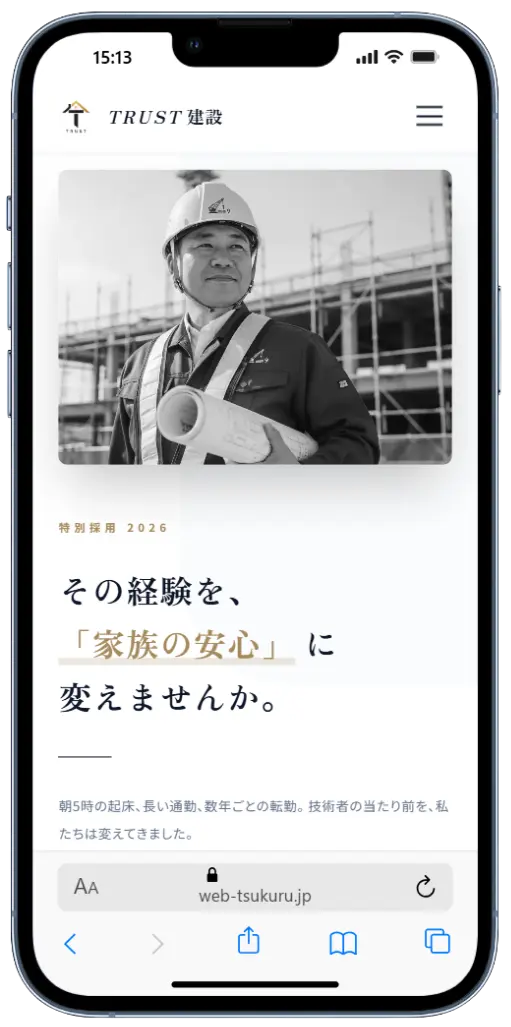
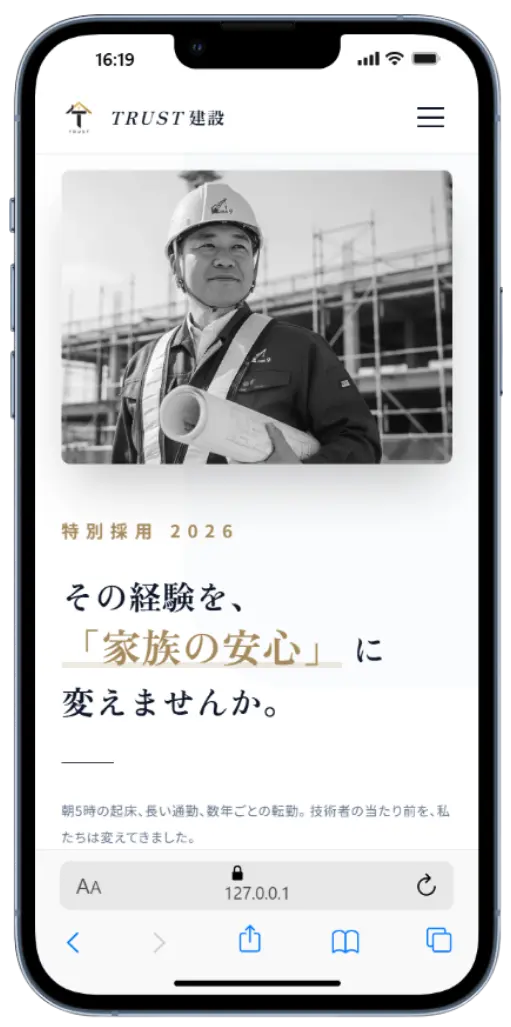
修正

diff --git a/templates/type-trust/index.html b/templates/type-trust/index.html
@@ -167,7 +167,7 @@
                     <h1 class="text-3xl md:text-5xl lg:text-6xl font-serif font-bold leading-[1.6] md:leading-[1.8] lg:leading-[1.8] mb-8 md:mb-12 tracking-wide">
                         その経験を、<br>
                         
-                        <span class="inline-block">
+                        <span class="whitespace-nowrap">
                             <span class="text-brand-gold relative inline-block text-4xl md:text-6xl lg:text-7xl">
                                 「家族の安心」
                                 <span class="absolute bottom-0 left-0 w-full h-[6px] bg-brand-gold/20 -z-10"></span>
